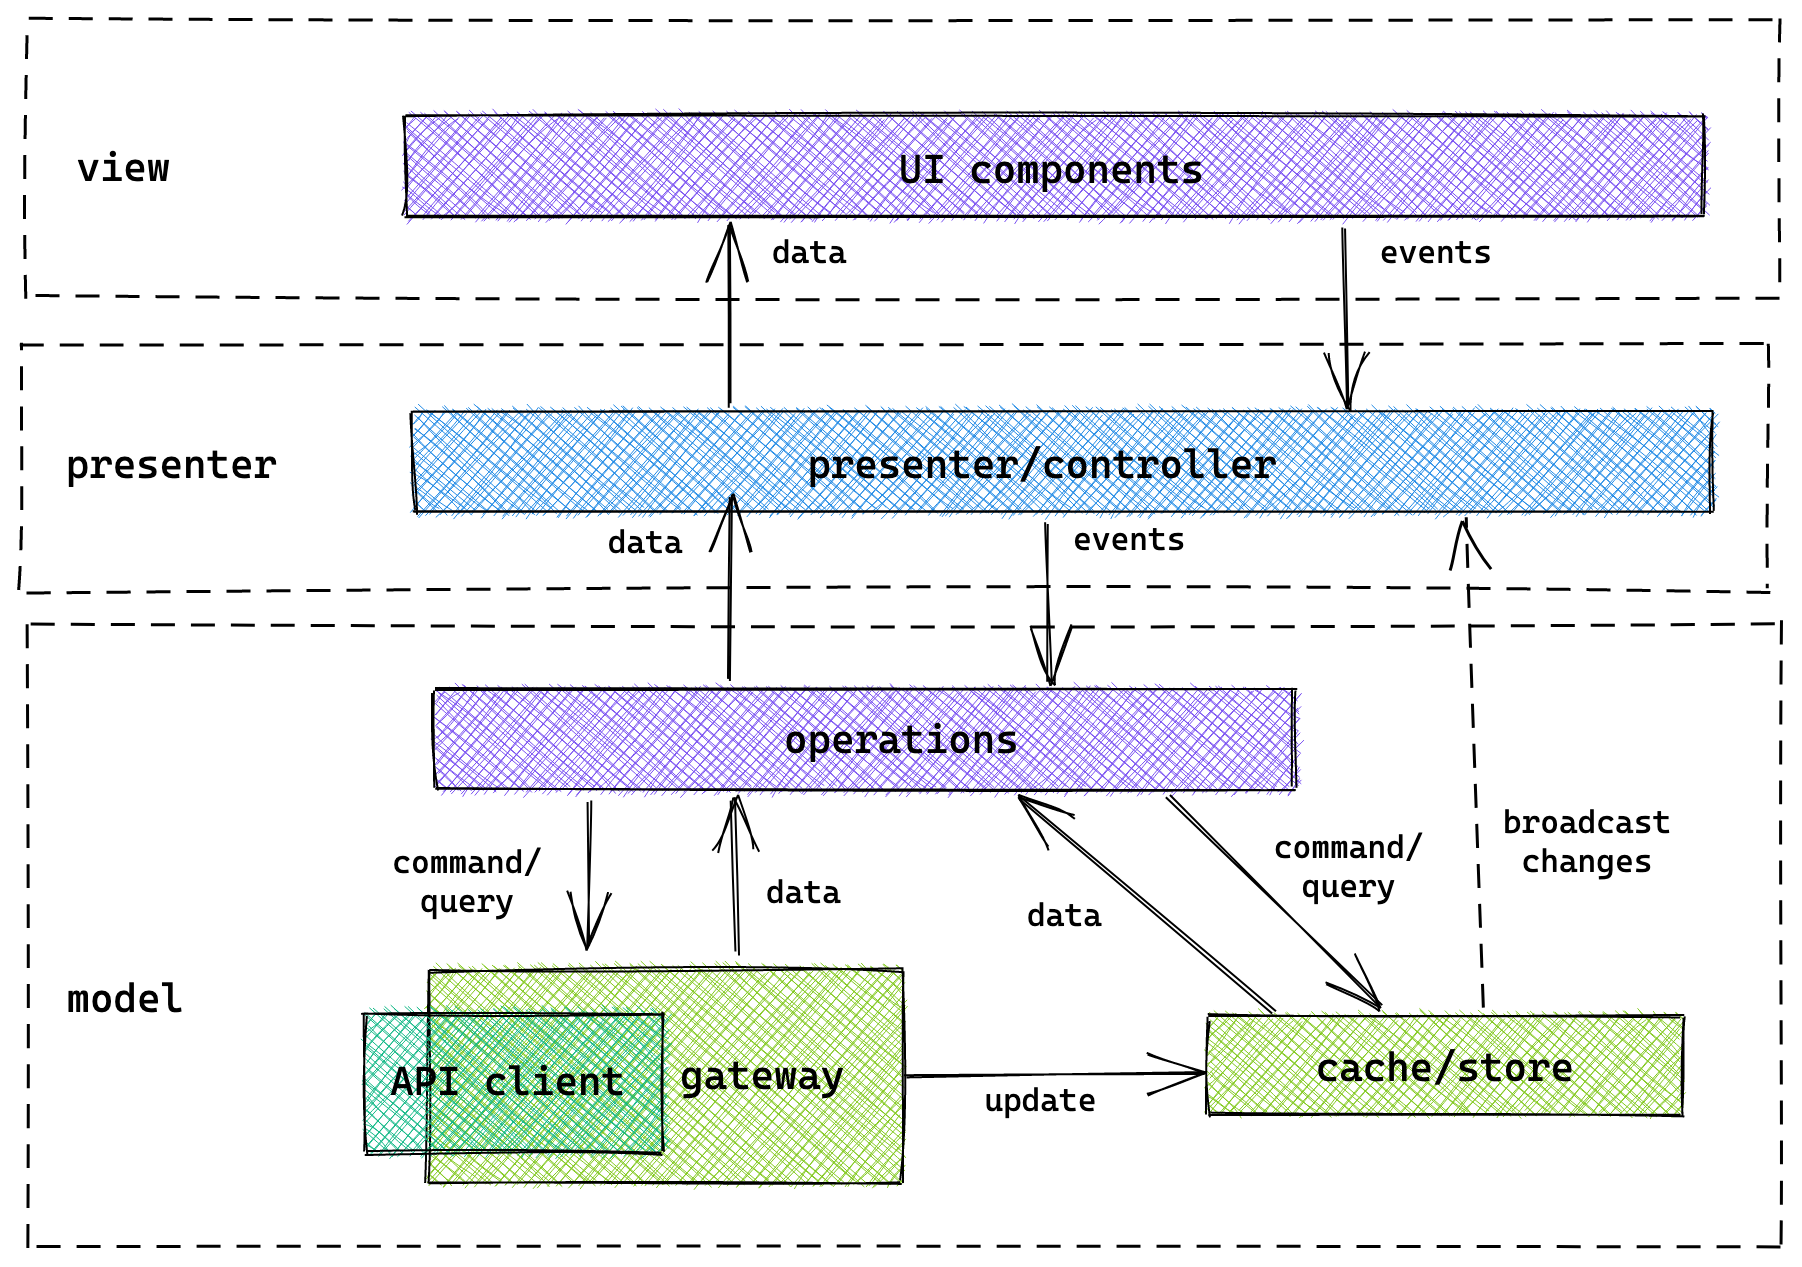
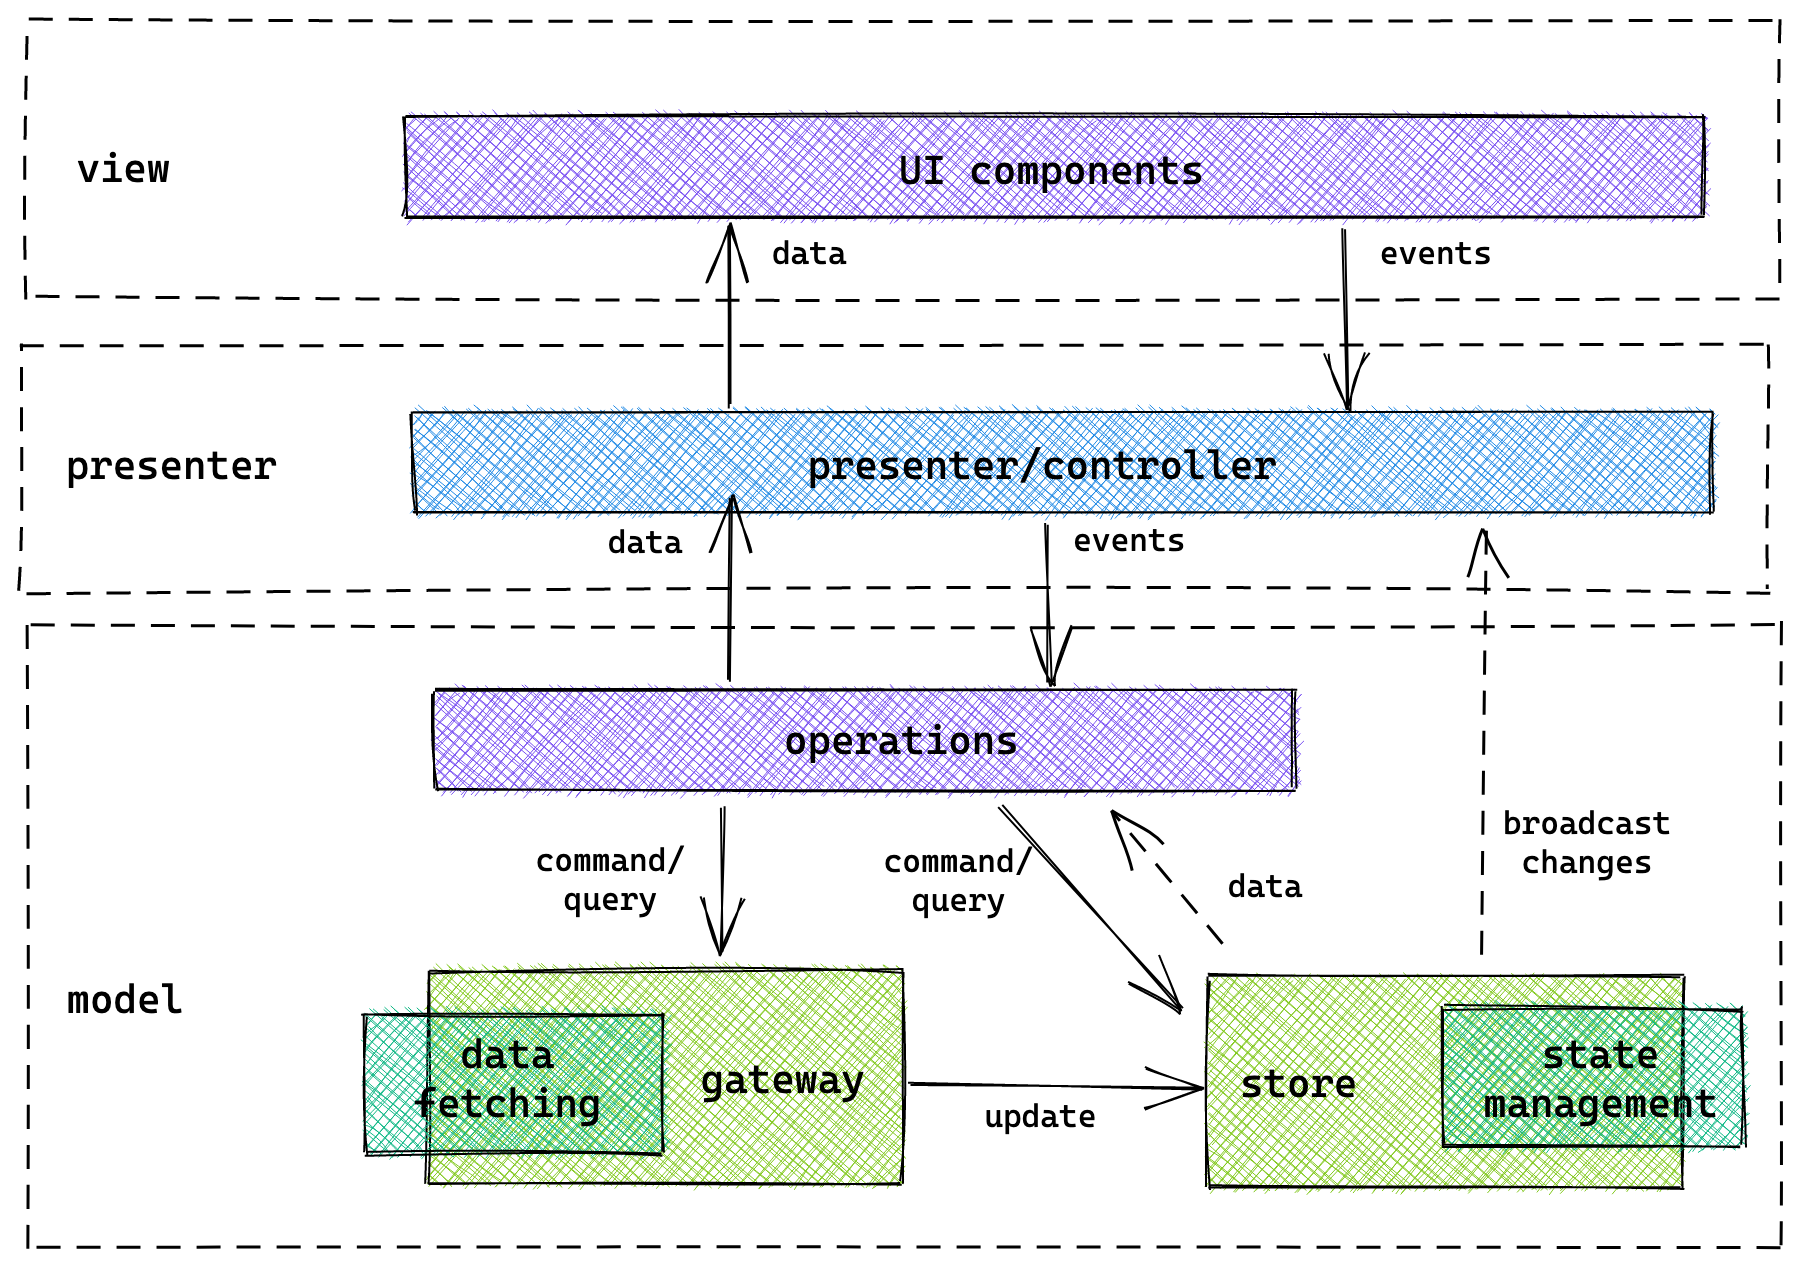
work in progress' '

diff --git a/README.md b/README.md
@@ -1,8 +1,6 @@
 # Front-end reference architecture
 
-##### _version 3.0.0_
-
-**Author(s)**: Kevin Pennekamp | front-end architect | [vycke.dev](https://vycke.dev) | <hello@vycke.dev>
+**Version 3.0.0** | **Author**(s): Kevin Pennekamp | front-end architect | [vycke.dev](https://vycke.dev) | <hello@vycke.dev>
 
 > "A good architecture enables agility" - Simon Brown, author of the C4 model
 
@@ -10,45 +8,51 @@ This document describes a reactive reference architecture for client-side JavaSc
 
 > **DEFINITION**: a reference architecture is an abstract blueprint of a structure for a specific class of information systems. It describes a set of guidelines on how to use the structural description in designing a concrete architecture. 
 
-## Introduction
+## System context
+Client-side applications for digital enterprises are a single part of a bigger system. The systems we create are comprised of multiple internal and external/public services. Client-side applications connect to internal services through an API gateway. In some cases, the client-side application also connects to an external service directly (e.g. a public data set). The [C4 model](https://c4model.com) container diagram (or level 2) is displayed below.  
 
-The goal of the architecture is to enable engineers to create large-scale applications. These applications have many users, external connections, and long development time. To achieve control over the business outcomes, it requires an [antifragile](https://www.sciencedirect.com/science/article/pii/S1877050916302290) architecture. There are a few core principles that make up this architecture. 
+![](./images/c4-container.png)
+
+On this scale, a shared language of architectural patterns are required to ensure _maintainability_, _flexibility_ and _testability_. This reference architecture describes common patterns known from back-end development, but applied to client-side applications. 
+
+## Core principles
+To ensure _maintainability_, _flexibility_ and _testability_, there are four influential principles on which the design decisions in this reference architecture are made upon. 
 
 ### Separation of concerns
+Separation of concerns is the activity of consciously enforcing logical boundaries between each of the architectural concerns. A common methodology is the [clean architecture](https://blog.cleancoder.com/uncle-bob/2012/08/13/the-clean-architecture.html), displayed on the left. The two centered layers are always solutions. specific, while the outer layers could be sharable between solutions. 
 
-Separation of concerns is the activity of consciously enforcing logical boundaries between each of the architectural concerns. Based on the [clean architecture](https://blog.cleancoder.com/uncle-bob/2012/08/13/the-clean-architecture.html) the following layers can be identified for any client-side application. 
+![](./images/layers.png)
 
-![](/images/layers.png)
+Although the clean architecture does not fit client-side applications, it gives insights into different layers that do exist in client-side applications. These layers are displayed on the right. Each feature on a client-side application is a vertical slice through these layers. 
 
-On top of the described layers, the **[Command Query Separation (CQS)](https://en.wikipedia.org/wiki/Command%E2%80%93query_separation)** pattern is used to separate read and write operations, both internally and externally. _Queries_ don't impact state, and return data, while _commands_ change the state, but do not return data.
+### Command query separation (CQS) and reactivity
+On top of separation of concerns through a layered architecture, the **[Command Query Separation (CQS)](https://en.wikipedia.org/wiki/Command%E2%80%93query_separation)** pattern is used. This pattern describes how read and write operations, both internal and external, should be split. _Queries_ don't impact state, and return data, while _commands_ change the state, but do not return data.
 
-### Reactivity
-Modern client-side applications all resolve around reactivity. Based on user interaction, they expect applications to update automatically and immediately (e.g. [through optimistic UI](https://www.smashingmagazine.com/2016/11/true-lies-of-optimistic-user-interfaces/)). To allow for reactivity, and taking into account how modern frameworks work, the **[Model-View-Presenter (MVP)](https://en.wikipedia.org/wiki/Model%E2%80%93view%E2%80%93presenter)** pattern is used. The translation from the described layers into the MVP pattern is visualized below. 
+By splitting commands and queries, a client-side application can be made reactive. One component can subscribe to an application store through a query. When another component updates the store through a command, the first component is directly updated.  
 
-![](/images/mvp.png)
+![](./images/reactivity.png)
 
-Most of these elements are described in this reference guide. In the _interaction logic_ block (corresponding to the interaction layer), decisions are made. This means that validations, transformations etc. required for commands/query happen in this layer.  
+This can be extended into [optimistic UI](https://www.smashingmagazine.com/2016/11/true-lies-of-optimistic-user-interfaces/). When a command needs to send an update request to an external API, the expected result can be updated in the application. This results in information showing up directly on the screen, instead of waiting for the request result. 
 
-### Composability
-Client-side application of digital enterprises are of a big size. They can have parts shared across different applications, have an application build around micro-services, etc. In line with modern frameworks, composability is a key principle in client-side development. It enables for development _agility_ and solution _scalability_.
+### Domain-driven development
+Features are vertical slices in the layers defined in the "separation of concerns" section. Features ideally are loosely coupled from other features. However, in large-scale client-side applications, features are often coupled based on domain. By applying [domain driven development (DDD)](https://martinfowler.com/bliki/BoundedContext.html) we can group similar features in _modules_, like displayed in the below C4 component diagram (level 3). To ensure that users are presented the correct modules, a _router_ is used. 
 
-Composability is not only achieved by breaking the application down into different layers. Reusable components and modules should be created as well. Modules group components and represent the concept of [domain driven development](https://martinfowler.com/bliki/BoundedContext.html). 
+ ![](./images/c4-components.png)
+ 
+ > **NOTE**: modules represent the top three layers defined in the separation of concerns. The _gateway_ and _store_ represent the other two layers and are discussed in a different section.
 
-Combining composability and the separation of concerns leads to this reference architecture. In the remainder of this document, the architecture is described using the [C4 architecture](https://c4model.com) notation. It slices a front-end application into modules. The legend below describes the meaning of the different visualizations in this document.
+By dividing features in modules, the client-side application becomes more maintainable, scalable, and shareable. Modules can be extracted from one solution and used in another (e.g. as a micro front-end or NPM package). 
 
-![](/images/c4-legend.png)
+## Client-side architecture
 
-## System context and containers
 
-Each front-end application is a container of a bigger system, that provides access to various different users. In digital enterprises, this system is never stand-alone. It is connected to various other systems. The _context diagram_ is an example reference for a software system and how it relates to its environment.
+- General idea is MVP + CQS, to facilitate reactivity and separation of concern
+- Features grouped in modules for composability, using DDD.
 
-![](/images/c4-system-context-diagram.png)
+![](./images/mvp.png)
 
-The system consists of multiple containers. Containers are stand alone applications or a data store in the system. The front-end is one of these applications. The back-end can be a monolith or consist out of multiple micro-services. The front-end application uses an API container to talk to the back-end that is part of the system. However, the front-end application can also directly talk to external systems (e.g. public APIs).
 
-![](/images/c4-container-diagram.png)
-
-## Front-end architecture
+---
 
 The main idea behind the front-end reference architecture is to implement [domain driven development](https://martinfowler.com/bliki/BoundedContext.html). Each bounded context is captured in a **module** (or [cell](https://github.com/wso2/reference-architecture/blob/master/reference-architecture-cell-based.md)) component.
 
@@ -67,6 +71,8 @@ Besides the visualized application layer components, other components can be pla
 
 ## Application store
 
+- Also known as co-location https://kentcdodds.com/blog/colocation/
+
 Large applications use the store for global state management. The recommendation is that the store follows the patterns around [event sourcing](https://martinfowler.com/eaaDev/EventSourcing.html). This means that the store should be:
 
 - It stores data in a **centralized** and normalizes the data, i.e. nesting of relational data is not allowed.
@@ -80,7 +86,7 @@ To follow the principles of this architecture, it uses an **access layer**. This
 
 An element triggers an event, the data is changed. The access layer sends an `update` event via an integrated [pub/sub](https://en.wikipedia.org/wiki/Publish%E2%80%93subscribe_pattern). Other elements can subscribe to these events and act to data changes. The access layer can subscribe to the pub/sub. This enables another way for the store to update (e.g. when requests come from a different browser tab).
 
-## API gateway
+## Gateway 
 
 > **NOTE**: in case of one external source, a single API client can replace the gateway. Many open-source API clients support a similar structure (e.g. [Apollo Client](https://www.apollographql.com/client/)).
 
